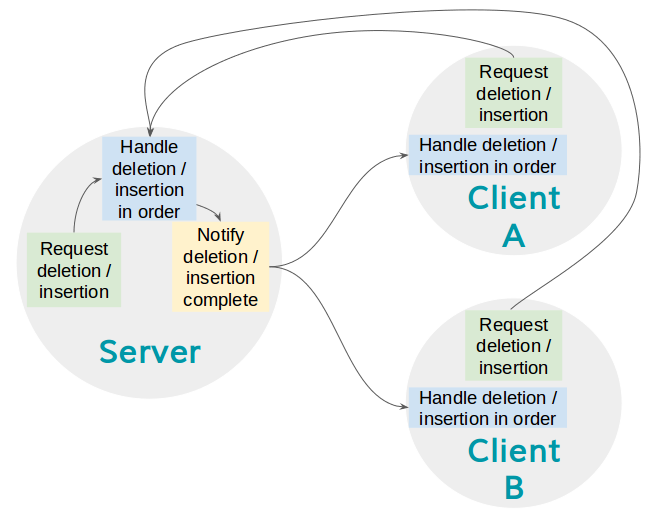
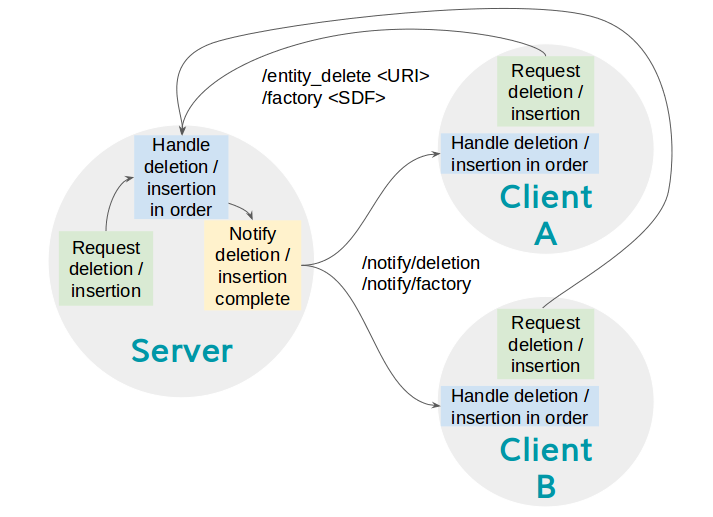
new image and added client side transport

diff --git a/insertion_deletion_flow/insertion_deletion_flow.md b/insertion_deletion_flow/insertion_deletion_flow.md
@@ -107,11 +107,20 @@ Internally, all requests, independently of type, are placed in a queue. They
 could be stored as protobuf messages for example. The queue is processed in
 order at each `World::Step`.
 
+Clients can perform requests as follows:
+
+    // Request deletion
+    ignition::transport::Node node;
+    example::msgs::StringMsg req;
+    req.set_entity_uri(uri);
+    node.Request("/entity_delete", req, <no callback>);
+
 ### Response to clients
 
 If deletion is successfully completed, the server notifies everyone else through
 a normal topic:
 
+    // Notify deletion is complete
     ignition::transport::Node node;
     std::string topic = "/notify/deletion";
     node.Advertise<example::msgs::StringMsg>(topic);
@@ -122,6 +131,7 @@ a normal topic:
 
 The same goes for insertion:
 
+    // Notify insertion is complete
     ignition::transport::Node node;
     std::string topic = "/notify/factory";
     node.Advertise<example::msgs::StringMsg>(topic);
@@ -135,6 +145,18 @@ it might be interesting to have one point of entry for the notifications
 coming from the server, and from there, events are fired notifying each
 individual widget. Or each widget can independently subscribe to the topics.
 
+This is how they subscribe to notifications:
+
+    void OnDeletionNotification(const example::msgs::StringMsg &_msg)
+    {
+      // Handle deletion now that we have confirmation, not when it was
+      // requested
+    }
+
+    ignition::transport::Node node;
+    std::string topic = "/notify/deletion";
+    node.Subscribe(topic, OnDeletionNotification);
+
 ### Deprecations
 
 * `entity_delete` used as a request will be deprecated in Gazebo 8 and removed
@@ -144,6 +166,8 @@ in Gazebo 9.
 
 ### Pull requests
 
+(The order and grouping might change)
+
 1. Deletion request service and notification topic.
 
 2. Insertion request service and notification topic.
@@ -151,8 +175,4 @@ in Gazebo 9.
 3. Rearranging queue in server.
 
 4. Rearranging queue in client.
-
-
-
-
 
